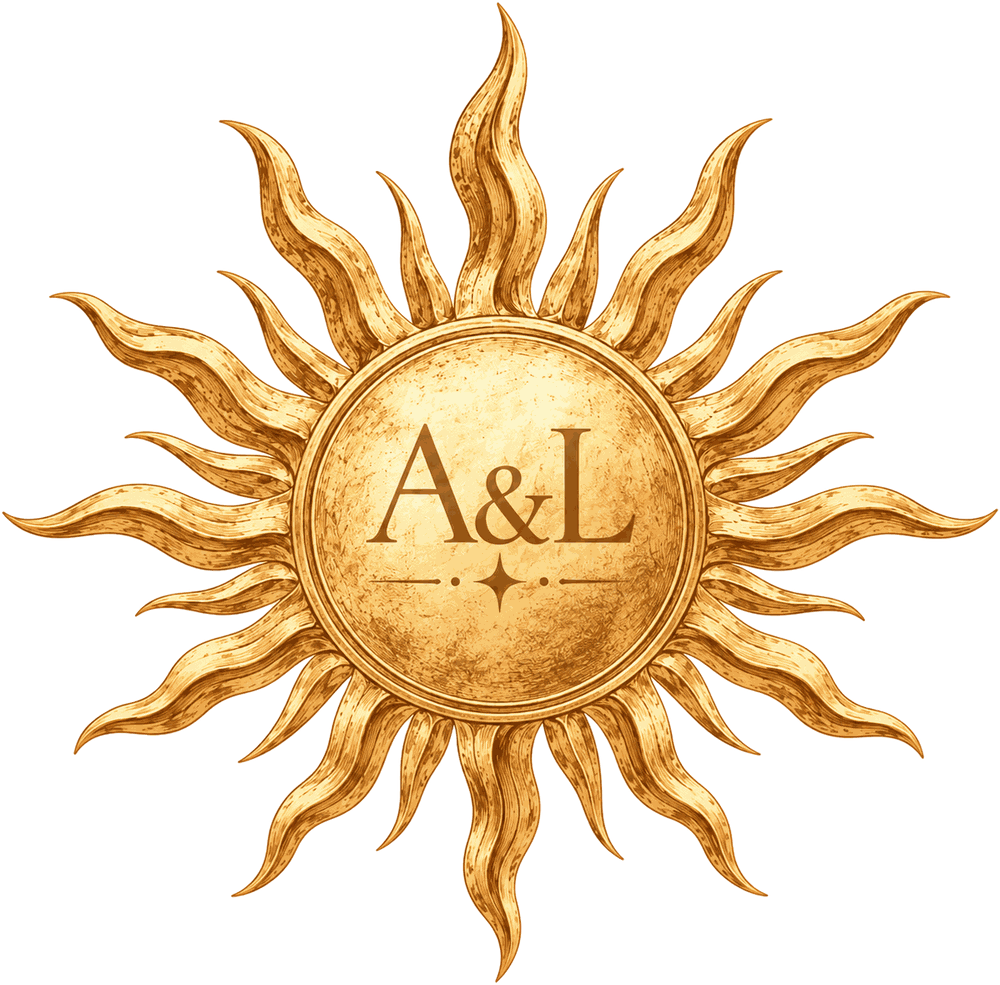
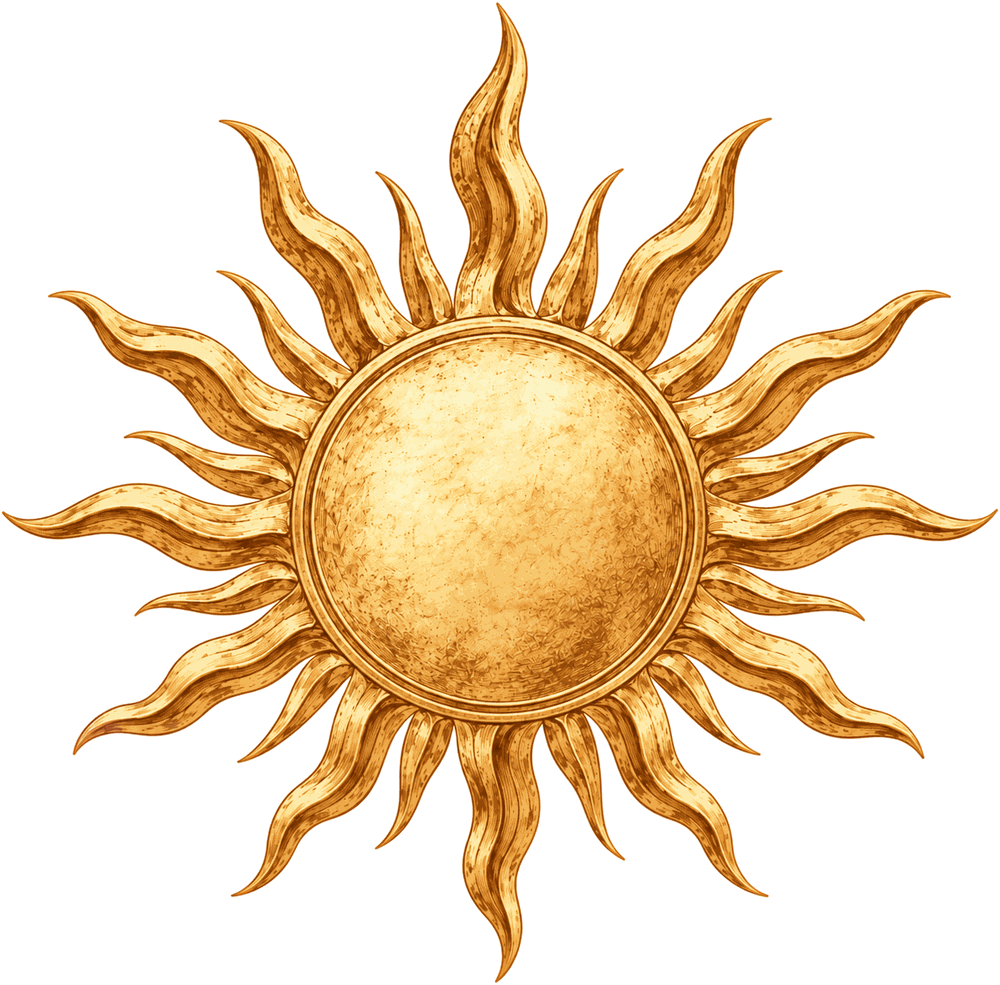
Poser la carte dessinee d'un seul tenant et le soleil sans initiales
La carte Save the Date d'Adham, texte compris, remplace le ruban, le
coeur et le texte DOM du hero. L'impression devient un fondu de la carte
entiere, le petit soleil du coin et le grand soleil gardent leur entree.
Le soleil sans initiales prend la place sous la carte et dans son coin,
seul le soleil de fin garde les initiales. heart.png et ribbon.png sont
retires, originaux conserves dans assets/.

Claude-Session: https://claude.ai/code/session_01L1KSdpdw8eBMkTSTbBFb4v

diff --git a/src/components/sections/Hero.tsx b/src/components/sections/Hero.tsx
@@ -8,13 +8,14 @@ import { useAppStore } from '../../store/useAppStore'
 import { Sun } from '../Sun'
 
 /**
- * La carte Save the Date dans son cadre ruban (docs/mockups/HERO_Section.png).
+ * La carte Save the Date, dessinée d'un seul tenant par Adham, texte compris
+ * (identique dans les deux langues). Un petit soleil dans son coin, le grand
+ * soleil dessous.
  *
  * Deux arrivées possibles. Depuis la fin du film, la carte « s'imprime » sur
- * le papier que la vidéo vient de laisser à l'écran : le ruban se pose, le
- * cœur descend, le petit soleil arrive en tournant, le grand monte du bas, le
- * texte s'écrit. En arrivée directe (reduced-motion, film en erreur), un
- * simple fondu. Réglé dans l'atelier tools/animation (Impression.tsx).
+ * le papier que la vidéo vient de laisser à l'écran : elle se pose en se
+ * fondant, le petit soleil arrive en tournant, le grand monte du bas. En
+ * arrivée directe (reduced-motion, film en erreur), un simple fondu.
  */
 export function Hero() {
   const t = useT()
@@ -34,38 +35,21 @@ export function Hero() {
       }
       const tl = gsap.timeline({ defaults: { ease: 'power2.out' } })
       tl.fromTo('.card', { autoAlpha: 0 }, { autoAlpha: 1, duration: 0.4 }, 0)
-        .fromTo('.card__ribbon', { scale: 1.4, autoAlpha: 0 }, { scale: 1, autoAlpha: 1, duration: 1.2 }, 0)
-        .fromTo(
-          '.card__heart',
-          { xPercent: -50, yPercent: -60, autoAlpha: 0 },
-          { xPercent: -50, yPercent: 0, autoAlpha: 1, duration: 0.9, ease: 'back.out(1.4)' },
-          0.5,
-        )
-        .fromTo('.card__sun', { rotation: -120, scale: 0.4, autoAlpha: 0 }, { rotation: 0, scale: 1, autoAlpha: 1, duration: 0.9 }, 0.7)
-        .fromTo('.sun', { xPercent: -50, yPercent: 40, autoAlpha: 0 }, { xPercent: -50, yPercent: 0, autoAlpha: 1, duration: 1.2 }, 0.6)
-        .fromTo('.card__body > *', { autoAlpha: 0, y: 12 }, { autoAlpha: 1, y: 0, duration: 0.7, stagger: 0.12 }, 1.1)
+        .fromTo('.card__art', { scale: 1.06, autoAlpha: 0 }, { scale: 1, autoAlpha: 1, duration: 1.3 }, 0)
+        .fromTo('.card__sun', { rotation: -120, scale: 0.4, autoAlpha: 0 }, { rotation: 0, scale: 1, autoAlpha: 1, duration: 0.9 }, 0.6)
+        .fromTo('.sun', { xPercent: -50, yPercent: 40, autoAlpha: 0 }, { xPercent: -50, yPercent: 0, autoAlpha: 1, duration: 1.2 }, 0.5)
     }, el)
     return () => ctx.revert()
   }, [impression, reduced])
 
+  const titre = `${t(wedding.text.hero.saveTheDate)}, ${wedding.couple.a} ${wedding.couple.ampersand} ${wedding.couple.b}, ${wedding.dateLabel}`
+
   return (
     <section className="section section--hero" id="hero" ref={ref}>
+      <h1 className="sr-only">{titre}</h1>
       <div className="card">
         <Sun />
-        <img
-          className="card__ribbon"
-          src={assets.ribbon.src}
-          alt=""
-          width={assets.ribbon.width}
-          height={assets.ribbon.height}
-        />
-        <img
-          className="card__heart"
-          src={assets.heart.src}
-          alt=""
-          width={assets.heart.width}
-          height={assets.heart.height}
-        />
+        <img className="card__art" src={assets.card.src} alt={titre} width={assets.card.width} height={assets.card.height} />
         <img
           className="card__sun"
           src={assets.sun.src}
@@ -73,13 +57,6 @@ export function Hero() {
           width={assets.sun.width}
           height={assets.sun.height}
         />
-        <div className="card__body">
-          <h1 className="card__title">{t(wedding.text.hero.saveTheDate)}</h1>
-          <p className="card__name">{wedding.couple.a}</p>
-          <p className="card__amp">{wedding.couple.ampersand}</p>
-          <p className="card__name">{wedding.couple.b}</p>
-          <p className="card__date">{wedding.dateLabel}</p>
-        </div>
       </div>
     </section>
   )

diff --git a/src/styles/sections.css b/src/styles/sections.css
@@ -202,76 +202,29 @@
 
 /* ---------- Carte du hero ---------- */
 
-/* Ratio de la découpe du ruban (943×1223), nœuds en haut à gauche et en bas à droite. */
+/* Ratio de la carte dessinée (1000 x 1540), nœuds du ruban en haut à gauche et en bas à droite. */
 .card {
   position: relative;
   width: 100%;
   max-width: 400px;
-  aspect-ratio: 943 / 1223;
+  aspect-ratio: 1000 / 1540;
   margin-top: 12%;
 }
 
-.card__ribbon {
+.card__art {
   position: absolute;
   inset: 0;
   width: 100%;
   height: 100%;
 }
 
-.card__heart {
-  position: absolute;
-  top: -20%;
-  left: 50%;
-  width: 60%;
-  height: auto;
-  transform: translateX(-50%);
-}
-
+/* Petit soleil dans le coin, à cheval sur le nœud du ruban. */
 .card__sun {
   position: absolute;
-  top: -6%;
-  left: -14%;
+  top: -8%;
+  left: -16%;
   width: 40%;
   height: auto;
-}
-
-.card__body {
-  position: absolute;
-  inset: 32% 16% 18% 14%;
-  display: flex;
-  flex-direction: column;
-  align-items: center;
-  justify-content: center;
-  gap: 0.35rem;
-}
-
-.card__title {
-  margin-bottom: 0.9rem;
-  font-family: var(--font-script);
-  font-size: clamp(2.6rem, 12vw, 3.4rem);
-  font-weight: 400;
-  line-height: 1;
-  color: #2b1b17;
-}
-
-.card__name {
-  font-size: 1.55rem;
-  letter-spacing: 0.32em;
-  text-transform: uppercase;
-  color: #2b1b17;
-}
-
-.card__amp {
-  font-size: 1.5rem;
-  font-style: italic;
-  color: #2b1b17;
-}
-
-.card__date {
-  margin-top: 1.1rem;
-  font-size: 1.2rem;
-  letter-spacing: 0.25em;
-  color: #2b1b17;
 }
 
 /* ---------- Boutons et liens ---------- */

diff --git a/src/content/assets.ts b/src/content/assets.ts
@@ -7,8 +7,8 @@
  */
 export const assets = {
   sun: { src: '/images/sun-gold.png', width: 1000, height: 985 },
-  heart: { src: '/images/heart.png', width: 473, height: 539 },
-  ribbon: { src: '/images/ribbon.png', width: 943, height: 1223 },
+  /** La carte Save the Date complète, dessinée par Adham, texte compris (identique dans les deux langues). */
+  card: { src: '/images/card.png', width: 1000, height: 1540 },
   /** Dessin au trait, texte « Bride & Groom » inclus dans l'image. */
   couple: { src: '/images/couple.png', width: 377, height: 572 },
   babyA: { src: '/images/baby-adham.png', width: 350, height: 560 },

diff --git a/src/styles/global.css b/src/styles/global.css
@@ -74,6 +74,16 @@ img {
   height: auto;
 }
 
+/* Texte pour les lecteurs d'écran et le titre du document, invisible à l'écran. */
+.sr-only {
+  position: absolute;
+  width: 1px;
+  height: 1px;
+  overflow: hidden;
+  clip-path: inset(50%);
+  white-space: nowrap;
+}
+
 /*
  * #root isole son contexte d'empilement : les calques en z-index négatif
  * (fond, soleil) restent au-dessus du body et sous tout le contenu.

diff --git a/docs/CONCEPTION.md b/docs/CONCEPTION.md
@@ -50,7 +50,7 @@ Rejouer : bouton « revoir le film » en fin de page, qui remonte l'intro à neu
 Sections, dans l'ordre (croquis de Lara, 2026-09-13) : hero (Save the Date) · photos d'enfance · invitation · date, heure, lieu, Maps · compte à rebours · liste de mariage avec le dessin du couple · RSVP · fin (phrase, « revoir le film », demi-soleil dessiné avec les initiales gravées, `sun-end.png`).
 
 Effets, et seulement ceux-là :
-- **Impression de la carte** (arrivée depuis le film) : le ruban se pose (scale 1,4 → 1, fondu, 1,2 s), le cœur descend avec un léger rebond, le petit soleil arrive en tournant (−120° → 0), le grand soleil monte du bas, les lignes de texte s'écrivent en cascade. Une timeline GSAP dans `Hero.tsx`, réglée dans l'atelier `tools/animation` (`Impression.tsx`). En arrivée directe, simple fondu.
+- **Impression de la carte** (arrivée depuis le film) : la carte dessinée d'un seul tenant (`card.png`, texte compris) se pose en se fondant (scale 1,06 → 1, 1,3 s), le petit soleil arrive en tournant (−120° → 0), le grand soleil monte du bas. Une timeline GSAP dans `Hero.tsx`. En arrivée directe, simple fondu. L'atelier `tools/animation/Impression.tsx` décrit l'ancienne version en morceaux, à réaligner si on y retouche.
 - **Soleil posé sous la carte** : un seul `sun-gold.png`, immobile, accroché au bas du ruban (`--sun-gap`), donc à la même place par rapport à la carte quelle que soit la taille de l'écran. On en voit le haut au premier écran, le reste se découvre en descendant sans qu'il bouge ; une fois dépassé, il ne revient pas. Il n'y a plus de soleil au-delà du hero. Largeur 78 % de l'écran (`--sun-size`). Aucune animation, aucun ScrollTrigger.
 - **Lisibilité sur le soleil** : réglée par l'espacement, pas par un effet. Le padding bas du hero réserve exactement la place du soleil, donc aucun texte ne passe sur l'or. Ni fondu, ni halo (décision du 2026-09-05, `DECISIONS.md`).
 - **Hirondelle qui traverse** : un ScrollTrigger par entrée de section, une hirondelle passe une fois, toujours de gauche à droite, 1,2 s.

diff --git a/docs/DECISIONS.md b/docs/DECISIONS.md
@@ -60,3 +60,5 @@
 | 2026-09-13 | 4 | Intro allongée à 16 s : les deux vidéos d'Adham (oiseaux, puis enveloppe) concaténées en un seul fichier, réencodé en CRF 23 pour tenir en 4 Mo au lieu de 6,4 en copie directe | Deux balises vidéo qui se relaient font une coupure ; un seul fichier n'en fait pas. Les deux sources ont la même définition et la même cadence, la jonction est image pour image. |
 | 2026-09-13 | 4 | « Toucher pour ouvrir » déplacé à 50,5 % de la hauteur, dans la bande de ciel entre l'enveloppe et le soleil de la nouvelle première image | Le premier écran n'est plus l'enveloppe fermée mais les oiseaux. |
 | 2026-09-13 | 2 | Soleil entier dessiné par Adham (`assets/sun_full.png`), initiales gravées, remplace la photo dorée sous la carte et dans son coin (`public/images/sun-gold.png`, 1000 px, 256 couleurs) | Même main que le demi-soleil de fin : plus aucune photo sur la page. |
+| 2026-09-13 | 2 | Hero : la carte Save the Date dessinée d'un seul tenant par Adham, texte compris, remplace ruban + cœur + texte DOM (`public/images/card.png`, 1000 px, 274 Ko) ; `heart.png` et `ribbon.png` retirés | Demande d'Adham. Le texte de la carte est le même dans les deux langues, un `h1` invisible garde le titre du document. L'impression devient un fondu de la carte entière, le petit et le grand soleil gardent leur entrée. |
+| 2026-09-13 | 2 | Soleil sans initiales (`assets/sun_full_plain.png`) sous la carte et dans son coin ; seul le soleil de fin garde les initiales | Demande d'Adham. |
